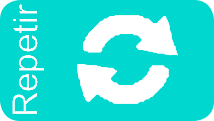
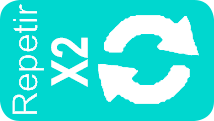
agregado de imagenes para bloques de repeticion doble y triple

Changed region(s): [[0.2243, 0.124, 0.9533, 0.8678]]

diff --git a/src/main/java/edu/fiuba/algo3/vista/MapeoDeBloques.java b/src/main/java/edu/fiuba/algo3/vista/MapeoDeBloques.java
@@ -15,8 +15,8 @@ public class MapeoDeBloques {
         mapeoDeImagenes.put(new BloqueDeAccion(new MoverALaIzquierda()).toString() , "draw-west.png");
         mapeoDeImagenes.put(new BloqueDeAccion(new SubirLapiz()).toString()        , "subir.png");
         mapeoDeImagenes.put(new BloqueDeAccion(new BajarLapiz()).toString()        , "bajar.png");
-
-        mapeoDeImagenes.put(new BloqueAgregable(new BloqueDeRepeticion(0)).toString(), "repeticion.png");
+        mapeoDeImagenes.put(new BloqueAgregable(new BloqueDeRepeticion(2)).toString(), "repeticion-doble.png");
+        mapeoDeImagenes.put(new BloqueAgregable(new BloqueDeRepeticion(3)).toString(), "repeticion-triple.png");
         mapeoDeImagenes.put(new BloqueAgregable(new InvertirComportamiento()).toString(), "invertir.png");
     }
 
